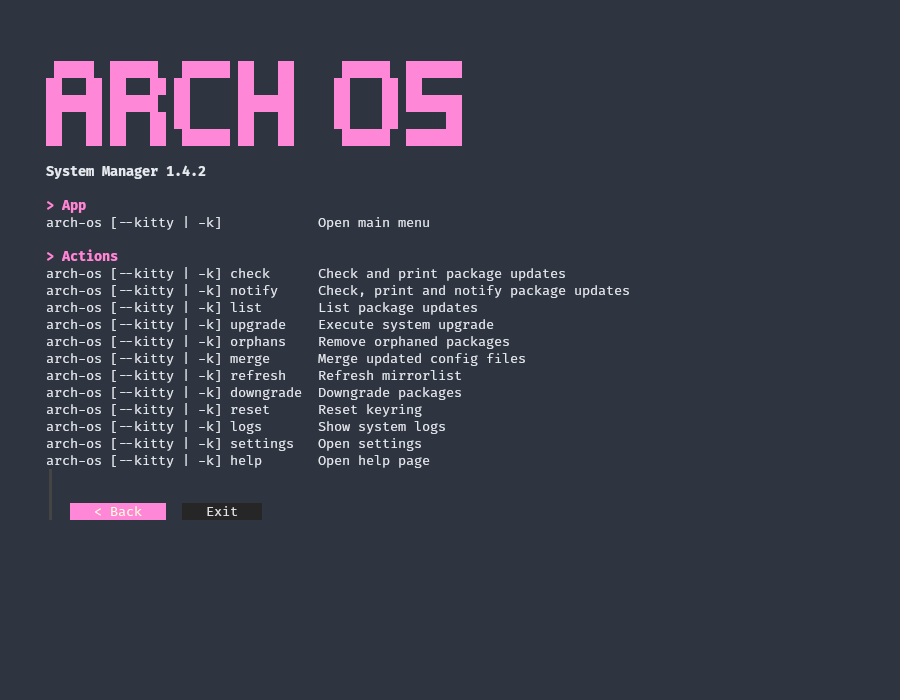
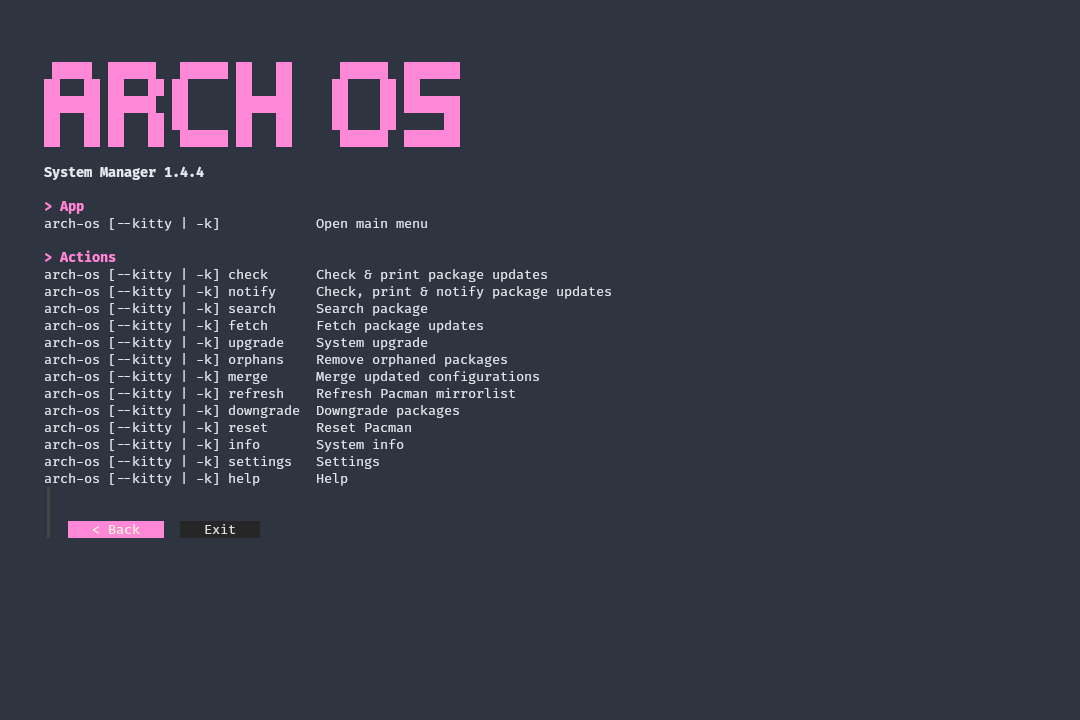
1.4.4
* Add new search pkg feature
* Refactoring variables

diff --git a/docs/README.md b/docs/README.md
@@ -68,6 +68,7 @@ Flatpak support is enabled by default. To disable Flatpak support, change `FLATP
 <div align="center">
 
 <p><img width="90%" src="./screenshots/help.png"></p>
+<p><img width="90%" src="./screenshots/search.png"></p>
 <p><img width="90%" src="./screenshots/list.png"></p>
 <p><img width="90%" src="./screenshots/upgrade.png"></p>
 <p><img width="90%" src="./screenshots/merge.png"></p>
